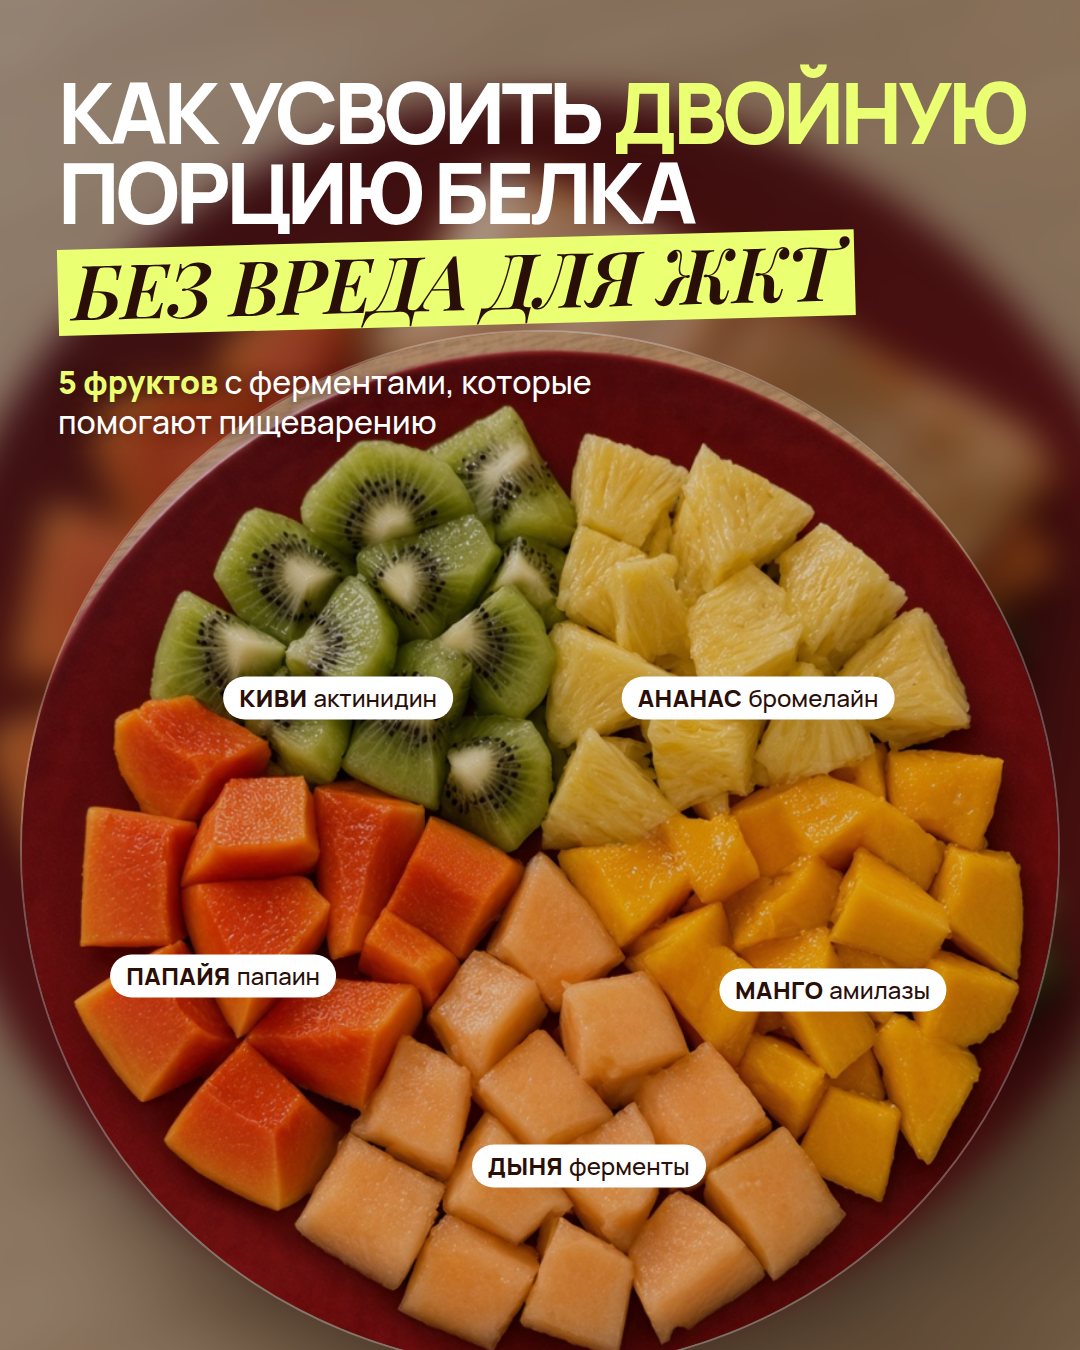
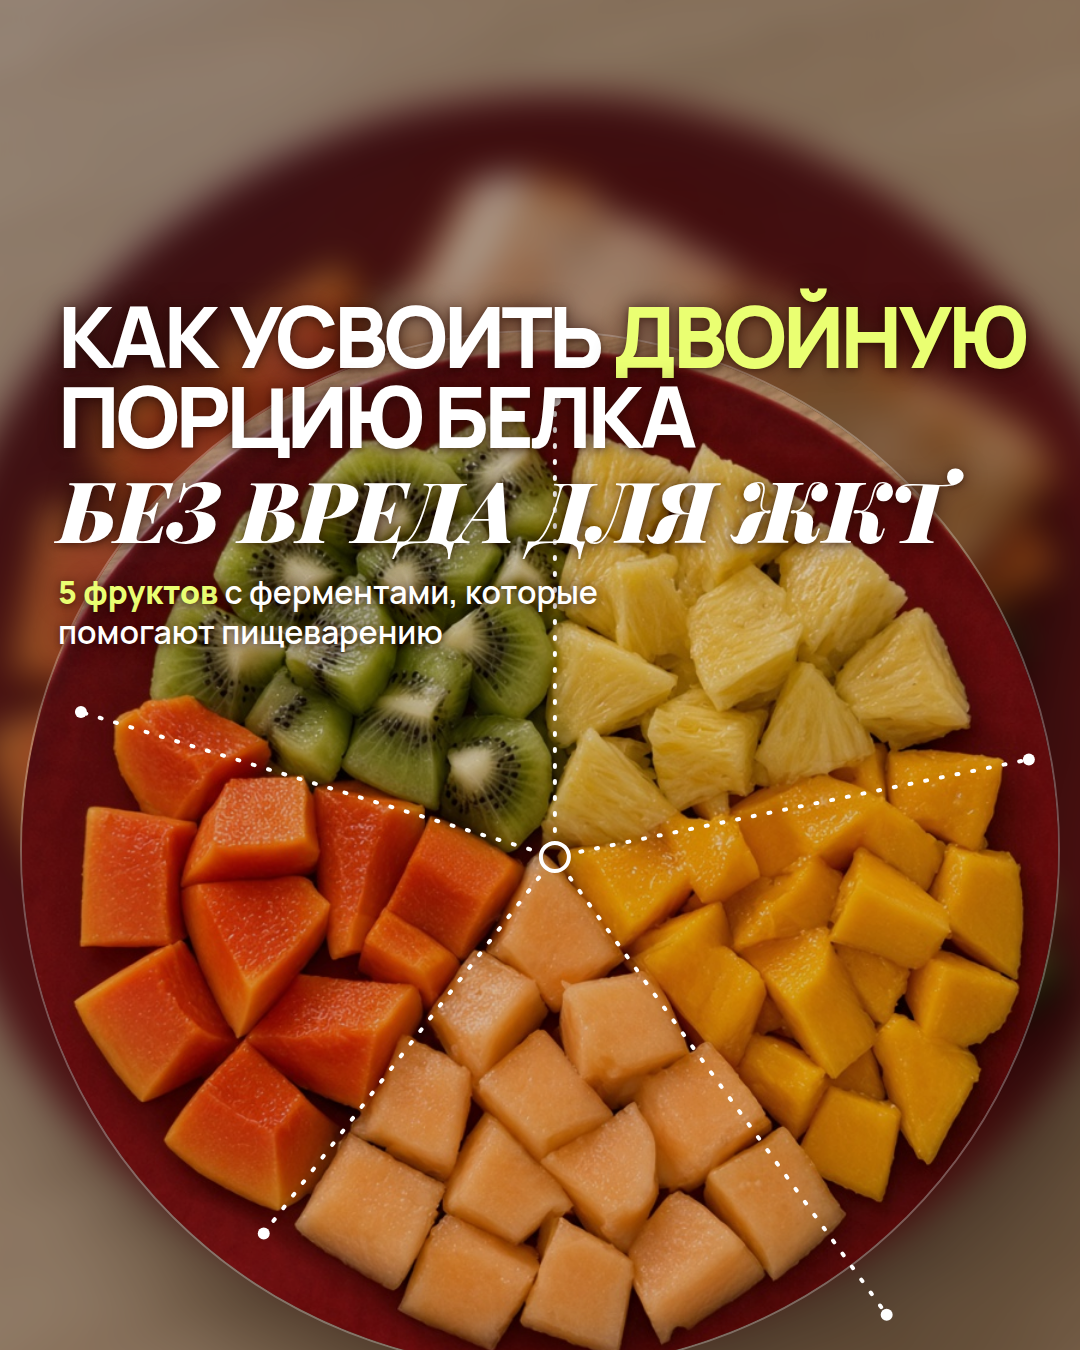
Cover: drop marker and fruit labels, headline lower, dotted sector dividers

diff --git a/instagram-fruits-zhkt/slide-01-title.html b/instagram-fruits-zhkt/slide-01-title.html
@@ -5,7 +5,7 @@
   <meta name="viewport" content="width=1080" />
   <link rel="preconnect" href="https://fonts.googleapis.com" />
   <link rel="preconnect" href="https://fonts.gstatic.com" crossorigin />
-  <link href="https://fonts.googleapis.com/css2?family=Manrope:wght@500;600;800&family=Playfair+Display:ital,wght@1,500;1,600&display=swap" rel="stylesheet" />
+  <link href="https://fonts.googleapis.com/css2?family=Manrope:wght@500;600;800&family=Playfair+Display:ital,wght@1,700;1,800;1,900&display=swap" rel="stylesheet" />
   <style>
     * { box-sizing: border-box; margin: 0; padding: 0; }
     html, body {
@@ -50,12 +50,21 @@
       filter: brightness(.86);
     }
 
+    .marks {
+      position: absolute;
+      inset: 0;
+      z-index: 3;
+      pointer-events: none;
+      overflow: visible;
+    }
+
     .title {
       position: absolute;
       z-index: 5;
-      top: 72px;
+      top: 296px;
       left: 58px;
       right: 40px;
+      text-shadow: 0 0 22px rgba(35, 8, 4, .7), 0 2px 6px rgba(35, 8, 4, .45);
     }
     .headline {
       font-family: "Manrope", sans-serif;
@@ -69,56 +78,31 @@
     .headline .accent { color: #eaff72; }
 
     .subhead {
-      display: inline-block;
-      margin-top: 18px;
-      padding: 2px 18px 8px 14px;
-      background: #eaff72;
-      color: #2a0f08;
+      margin-top: 10px;
       font-family: "Playfair Display", serif;
       font-style: italic;
-      font-weight: 600;
-      font-size: 76px;
+      font-weight: 900;
+      font-size: 84px;
       line-height: 1;
       letter-spacing: -.01em;
       text-transform: uppercase;
-      transform: rotate(-1.5deg);
-      transform-origin: left center;
+      white-space: nowrap;
     }
 
     .lead {
-      margin-top: 26px;
+      margin-top: 22px;
       font-size: 32px;
       line-height: 1.25;
-      font-weight: 500;
-      text-shadow: 0 1px 14px rgba(40, 10, 5, .6);
+      font-weight: 600;
     }
     .lead b { font-weight: 800; color: #eaff72; }
-
-    .chip {
-      position: absolute;
-      z-index: 4;
-      transform: translate(-50%, -50%);
-      padding: 9px 16px 10px;
-      border-radius: 999px;
-      background: #ffffff;
-      color: #2a0f08;
-      font-size: 24px;
-      line-height: 1;
-      font-weight: 500;
-      white-space: nowrap;
-    }
-    .chip b {
-      font-weight: 800;
-      text-transform: uppercase;
-      letter-spacing: .02em;
-      margin-right: 6px;
-    }
   </style>
 </head>
 <body>
   <div class="slide">
     <div class="background"></div>
     <div class="plate"><img src="./cover-fruits-plate.jpg" alt=""></div>
+    <svg class="marks" id="marks" viewBox="0 0 1080 1350" xmlns="http://www.w3.org/2000/svg"></svg>
 
     <div class="title">
       <h1 class="headline">
@@ -131,30 +115,41 @@
   </div>
 
   <script>
-    // Sector centres in the 768×1024 preview of cover-fruits-plate.jpg,
-    // mapped onto the .plate circle (1040px, object-fit: cover, 48%).
+    // Points in the 768×1024 preview of cover-fruits-plate.jpg, mapped onto
+    // the .plate circle (1040px, object-fit: cover, position 48%).
     const K = 1040 / 768;
     const OFFSET_Y = 330 - (1024 * K - 1040) * 0.48;
-    const toSlide = (x, y) => [20 + x * K, OFFSET_Y + y * K];
+    const toSlide = ([x, y]) => [20 + x * K, OFFSET_Y + y * K];
 
-    const chips = [
-      { at: [235, 395], name: "Киви",   enzyme: "актинидин" },
-      { at: [545, 395], name: "Ананас", enzyme: "бромелайн" },
-      { at: [600, 610], name: "Манго",  enzyme: "амилазы" },
-      { at: [420, 740], name: "Дыня",   enzyme: "ферменты" },
-      { at: [150, 600], name: "Папайя", enzyme: "папаин" },
-    ];
+    const centre = toSlide([395, 512]);
+    const borders = [
+      [395, 175],  // kiwi | pineapple
+      [745, 440],  // pineapple | mango
+      [640, 850],  // mango | melon
+      [180, 790],  // melon | papaya
+      [45, 405],   // papaya | kiwi
+    ].map(toSlide);
 
-    const slide = document.querySelector(".slide");
-    for (const c of chips) {
-      const [x, y] = toSlide(...c.at);
-      const el = document.createElement("div");
-      el.className = "chip";
-      el.style.left = `${x}px`;
-      el.style.top = `${y}px`;
-      el.innerHTML = `<b>${c.name}</b>${c.enzyme}`;
-      slide.appendChild(el);
+    const NS = "http://www.w3.org/2000/svg";
+    const marks = document.getElementById("marks");
+    const add = (tag, attrs) => {
+      const n = document.createElementNS(NS, tag);
+      for (const [k, v] of Object.entries(attrs)) n.setAttribute(k, v);
+      marks.appendChild(n);
+    };
+
+    const [cx, cy] = centre;
+    for (const [x, y] of borders) {
+      const a = Math.atan2(y - cy, x - cx);
+      const r0 = 26;
+      add("line", {
+        x1: cx + r0 * Math.cos(a), y1: cy + r0 * Math.sin(a), x2: x, y2: y,
+        stroke: "#ffffff", "stroke-width": 4, "stroke-linecap": "round",
+        "stroke-dasharray": "2 14",
+      });
+      add("circle", { cx: x, cy: y, r: 6, fill: "#ffffff" });
     }
+    add("circle", { cx, cy, r: 14, fill: "none", stroke: "#ffffff", "stroke-width": 4 });
   </script>
 </body>
 </html>
